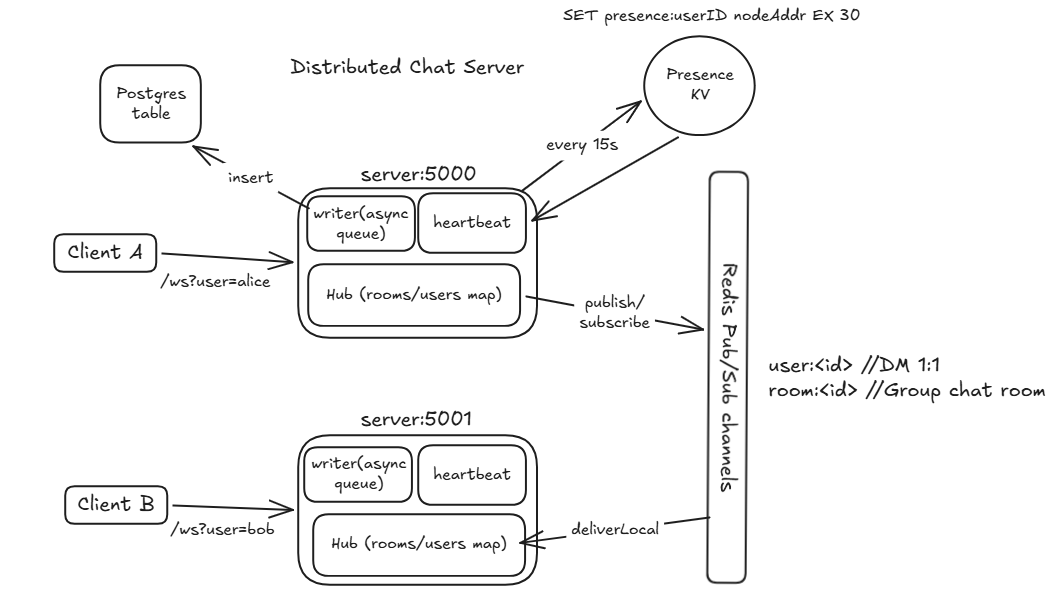
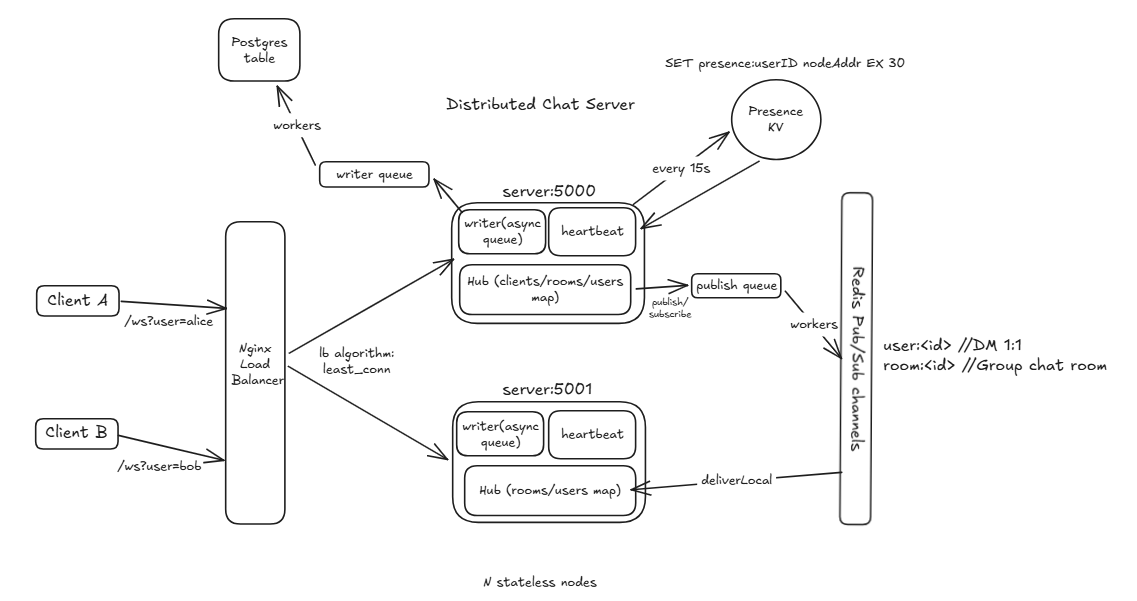
feat: decouple Redis publish from hub using async worker pool (p99 latency metrics - 22s to 131ms)

diff --git a/cmd/loadtest/main.go b/cmd/loadtest/main.go
@@ -1,0 +1,234 @@
+// Measures:
+//   1. Max sustained concurrent connections (watch failedConns as you scale -conns)
+//   2. Message delivery latency p50/p95/p99 within a room
+
+//claude generated
+
+package main
+
+import (
+	"encoding/json"
+	"flag"
+	"fmt"
+	"log"
+	"net/url"
+	"os"
+	"sort"
+	"strconv"
+	"strings"
+	"sync"
+	"sync/atomic"
+	"time"
+
+	"github.com/gorilla/websocket"
+)
+
+type Envelope struct {
+	Type       string `json:"type"`
+	RoomID     string `json:"room_id"`
+	FromUserID string `json:"from_user_id"`
+	ToUserId   string `json:"to_user_id"`
+	Body       string `json:"body"`
+}
+
+var (
+	urlsFlag = flag.String(
+	"urls",
+	"ws://localhost:5000/ws",
+	"comma-separated websocket endpoints",
+	)
+
+
+	numConns    = flag.Int("conns", 1000, "number of concurrent connections to open")
+	numRooms    = flag.Int("rooms", 20, "number of rooms to distribute connections across")
+	testDur     = flag.Duration("duration", 30*time.Second, "how long to run the message-send phase")
+	sendEvery   = flag.Duration("send-interval", 500*time.Millisecond, "how often each connection sends a message")
+	connectOnly = flag.Bool("connect-only", false, "only measure max sustained connections, skip message phase")
+	rampDelay   = flag.Duration("ramp-delay", 2*time.Millisecond, "delay between successive connection attempts")
+
+	successfulConns int64
+	failedConns     int64
+	messagesSent    int64
+	messagesRecv    int64
+
+	latenciesMu sync.Mutex
+	latencies   []time.Duration
+
+	gatewayURLs []string
+)
+
+func initURLs() {
+	for _, u := range strings.Split(*urlsFlag, ",") {
+		u = strings.TrimSpace(u)
+		if u != "" {
+			gatewayURLs = append(gatewayURLs, u)
+		}
+	}
+
+	if len(gatewayURLs) == 0 {
+		log.Fatal("no gateway urls supplied")
+	}
+}
+
+func main() {
+	flag.Parse()
+	initURLs()
+	log.Printf(
+	"Starting load test: %d connections across %d rooms using %d gateways",
+	*numConns,
+	*numRooms,
+	len(gatewayURLs),
+)
+
+	var wg sync.WaitGroup
+	stopCh := make(chan struct{})
+
+	for i := 0; i < *numConns; i++ {
+	wg.Add(1)
+
+	room := fmt.Sprintf("loadtest-room-%d", i%*numRooms)
+	userID := fmt.Sprintf("client-%d", i)
+
+	// Round-robin across gateways
+	gateway := gatewayURLs[i%len(gatewayURLs)]
+
+	go func(gateway, uid, roomID string) {
+		defer wg.Done()
+		runClient(gateway, uid, roomID, stopCh)
+	}(gateway, userID, room)
+
+	time.Sleep(*rampDelay)
+}
+
+	log.Printf("All connection attempts dispatched. Running for %s...", *testDur)
+	time.Sleep(*testDur)
+	close(stopCh)
+	wg.Wait()
+
+	report()
+}
+
+func buildDialURL(baseURL, userID string) (string, error) {
+	u, err := url.Parse(baseURL)
+	if err != nil {
+		return "", err
+	}
+
+	q := u.Query()
+	q.Set("user", userID)
+	u.RawQuery = q.Encode()
+
+	return u.String(), nil
+}
+func runClient(baseURL, userID, room string, stopCh <-chan struct{}) {
+	dialURL, err := buildDialURL(baseURL, userID)
+	if err != nil {
+		log.Fatalf("bad url: %v", err)
+	}
+
+	conn, _, err := websocket.DefaultDialer.Dial(dialURL, nil)
+	if err != nil {
+		atomic.AddInt64(&failedConns, 1)
+		return
+	}
+	defer conn.Close()
+	atomic.AddInt64(&successfulConns, 1)
+
+	joinEnv := Envelope{Type: "join", RoomID: room}
+	if err := conn.WriteJSON(joinEnv); err != nil {
+		return
+	}
+
+	if *connectOnly {
+		<-stopCh
+		return
+	}
+
+	done := make(chan struct{})
+	go readLoop(conn, userID, done)
+
+	ticker := time.NewTicker(*sendEvery)
+	defer ticker.Stop()
+
+	for {
+		select {
+		case <-stopCh:
+			return
+		case <-done:
+			return
+		case <-ticker.C:
+			body := strconv.FormatInt(time.Now().UnixNano(), 10) + "|ping"
+			msg := Envelope{Type: "msg", RoomID: room, FromUserID: userID, Body: body}
+			if err := conn.WriteJSON(msg); err != nil {
+				return
+			}
+			atomic.AddInt64(&messagesSent, 1)
+		}
+	}
+}
+
+func readLoop(conn *websocket.Conn, selfID string, done chan<- struct{}) {
+	defer close(done)
+	for {
+		var env Envelope
+		if err := conn.ReadJSON(&env); err != nil {
+			return
+		}
+		if env.Type != "msg" || env.FromUserID == selfID {
+			continue
+		}
+
+		parts := strings.SplitN(env.Body, "|", 2)
+		if len(parts) != 2 {
+			continue
+		}
+		sentNano, err := strconv.ParseInt(parts[0], 10, 64)
+		if err != nil {
+			continue
+		}
+		latency := time.Since(time.Unix(0, sentNano))
+		atomic.AddInt64(&messagesRecv, 1)
+
+		latenciesMu.Lock()
+		latencies = append(latencies, latency)
+		latenciesMu.Unlock()
+	}
+}
+
+func report() {
+	fmt.Println("\n=== Load Test Results ===")
+	fmt.Printf("Successful connections: %d\n", successfulConns)
+	fmt.Printf("Failed connections:     %d\n", failedConns)
+	fmt.Printf("Messages sent:          %d\n", messagesSent)
+	fmt.Printf("Messages received:      %d\n", messagesRecv)
+
+	latenciesMu.Lock()
+	defer latenciesMu.Unlock()
+
+	if len(latencies) == 0 {
+		fmt.Println("\nNo latency samples collected. Check:")
+		fmt.Println("  - buildDialURL() matches how your handler reads userID")
+		fmt.Println("  - join_req.roomID field name matches env.RoomID (json: room_id)")
+		os.Exit(0)
+	}
+
+	sort.Slice(latencies, func(i, j int) bool { return latencies[i] < latencies[j] })
+	p50 := latencies[len(latencies)*50/100]
+	p95 := latencies[len(latencies)*95/100]
+	p99 := latencies[minInt(len(latencies)*99/100, len(latencies)-1)]
+
+	fmt.Printf("Latency p50: %v\n", p50)
+	fmt.Printf("Latency p95: %v\n", p95)
+	fmt.Printf("Latency p99: %v\n", p99)
+	fmt.Println("\nFor your resume, e.g.:")
+	fmt.Printf("\"Sustained %d+ concurrent connections with p99 message delivery latency of %v\"\n", successfulConns, p99)
+}
+
+func minInt(a, b int) int {
+	if a < b {
+		return a
+	}
+	return b
+}
+
+var _ = json.Marshal

diff --git a/internal/redis.go b/internal/redis.go
@@ -11,11 +11,17 @@ import (
 
 var ttl = 30*time.Second
 
+const (
+	publishQueueSize=4096
+	publishWorkers=4
+)
+
 // node connection to redis
 type Broker struct {
 	rdb    *redis.Client //used for both pubsub and kv(presence)
 	pubsub *redis.PubSub
 	hub    *Hub
+	publishQueue chan Envelope
 }
 
 func NewBroker(addr string, hub *Hub) *Broker {
@@ -23,20 +29,42 @@ func NewBroker(addr string, hub *Hub) *Broker {
 	//dynamically subscribes to channel
 	ps := rdb.Subscribe(context.Background())
 
-	return &Broker{
+	b:= &Broker{
 		rdb:    rdb,
 		pubsub: ps,
 		hub:    hub,
+		publishQueue: make(chan Envelope,publishQueueSize),
+	}
+
+	for i := 0; i < publishWorkers; i++ {
+		go b.publishWorker()
+	}
+
+	return b
+}
+
+// runs on its own goroutine
+func (b *Broker) publishWorker() {
+	ctx := context.Background()
+	for env := range b.publishQueue {
+		payload, err := json.Marshal(env)
+		if err != nil {
+			log.Println("marshal error before publish:", err)
+			continue
+		}
+		if err := b.rdb.Publish(ctx, env.Target(), payload).Err(); err != nil {
+			log.Println("redis publish error:", err)
+		}
 	}
 }
 
-//delivery of message accross nodes
-func (b *Broker) publish(ctx context.Context, env Envelope) error {
-	payload, err := json.Marshal(env)
-	if err != nil {
-		return err
+//non blocking enqueue
+func (b *Broker) publish(env Envelope) {
+	select{
+	case b.publishQueue<-env:
+	default:
+		log.Println("publish queue full, dropping redis fanout for:", env.Target())
 	}
-	return b.rdb.Publish(ctx, env.Target(), payload).Err()
 }
 
 func (b *Broker) subscribe(ctx context.Context, channel string) error {

diff --git a/internal/writer.go b/internal/writer.go
@@ -8,17 +8,26 @@ import (
 	"log"
 )
 
+const (
+	writerQueueSize = 1000
+	writerWorkers  = 4
+)
+
 type Writer struct{
 	queue chan Envelope
 	pg *Postgres
 }
 
-func NewWriter(pg *Postgres,queueSize int)*Writer{
+func NewWriter(pg *Postgres)*Writer{
 	w:=&Writer{
-		queue:make(chan Envelope,queueSize),
+		queue:make(chan Envelope,writerQueueSize),
 		pg:pg,
 	}
-	go w.worker() //can be multiple
+	// go w.worker() //can be multiple
+
+	for i := 0; i < writerWorkers; i++ {
+		go w.worker()
+	}
 	return w
 }
 

diff --git a/internal/client.go b/internal/client.go
@@ -42,7 +42,7 @@ func (c *Client) readPump() {
 			break
 		}
 
-		log.Println("RAW: ", string(raw))
+		// log.Println("RAW: ", string(raw))
 
 		var env Envelope
 		if err := json.Unmarshal(raw, &env); err != nil {
@@ -71,6 +71,8 @@ func (c *Client) writePump() {
 		select {
 		case msg, ok := <-c.send:
 			if !ok {
+				// adding write deadline for message not just ping 
+				c.conn.SetWriteDeadline(time.Now().Add(writeWait))
 				c.conn.WriteMessage(websocket.CloseMessage, []byte{})
 				return
 			}

diff --git a/internal/hub.go b/internal/hub.go
@@ -162,9 +162,7 @@ func (h *Hub) Run() {
 
 		case env := <-h.broadcast:
 			h.writer.enqueue(env)
-			if err := h.broker.publish(ctx, env); err != nil {
-				log.Println("publish error: ", err)
-			}
+			h.broker.publish(env)
 
 		case rm := <-h.deliverLocal:
 			payload, err := json.Marshal(rm.env)

diff --git a/cmd/gateway/main.go b/cmd/gateway/main.go
@@ -20,7 +20,7 @@ func main(){
 		log.Fatal("pg connect:",err)
 	}
 
-	wr:=dcs.NewWriter(pg,1000)
+	wr:=dcs.NewWriter(pg)
 
 	hub:=dcs.NewHub()
 	b:= dcs.NewBroker(*redisAddr,hub)
